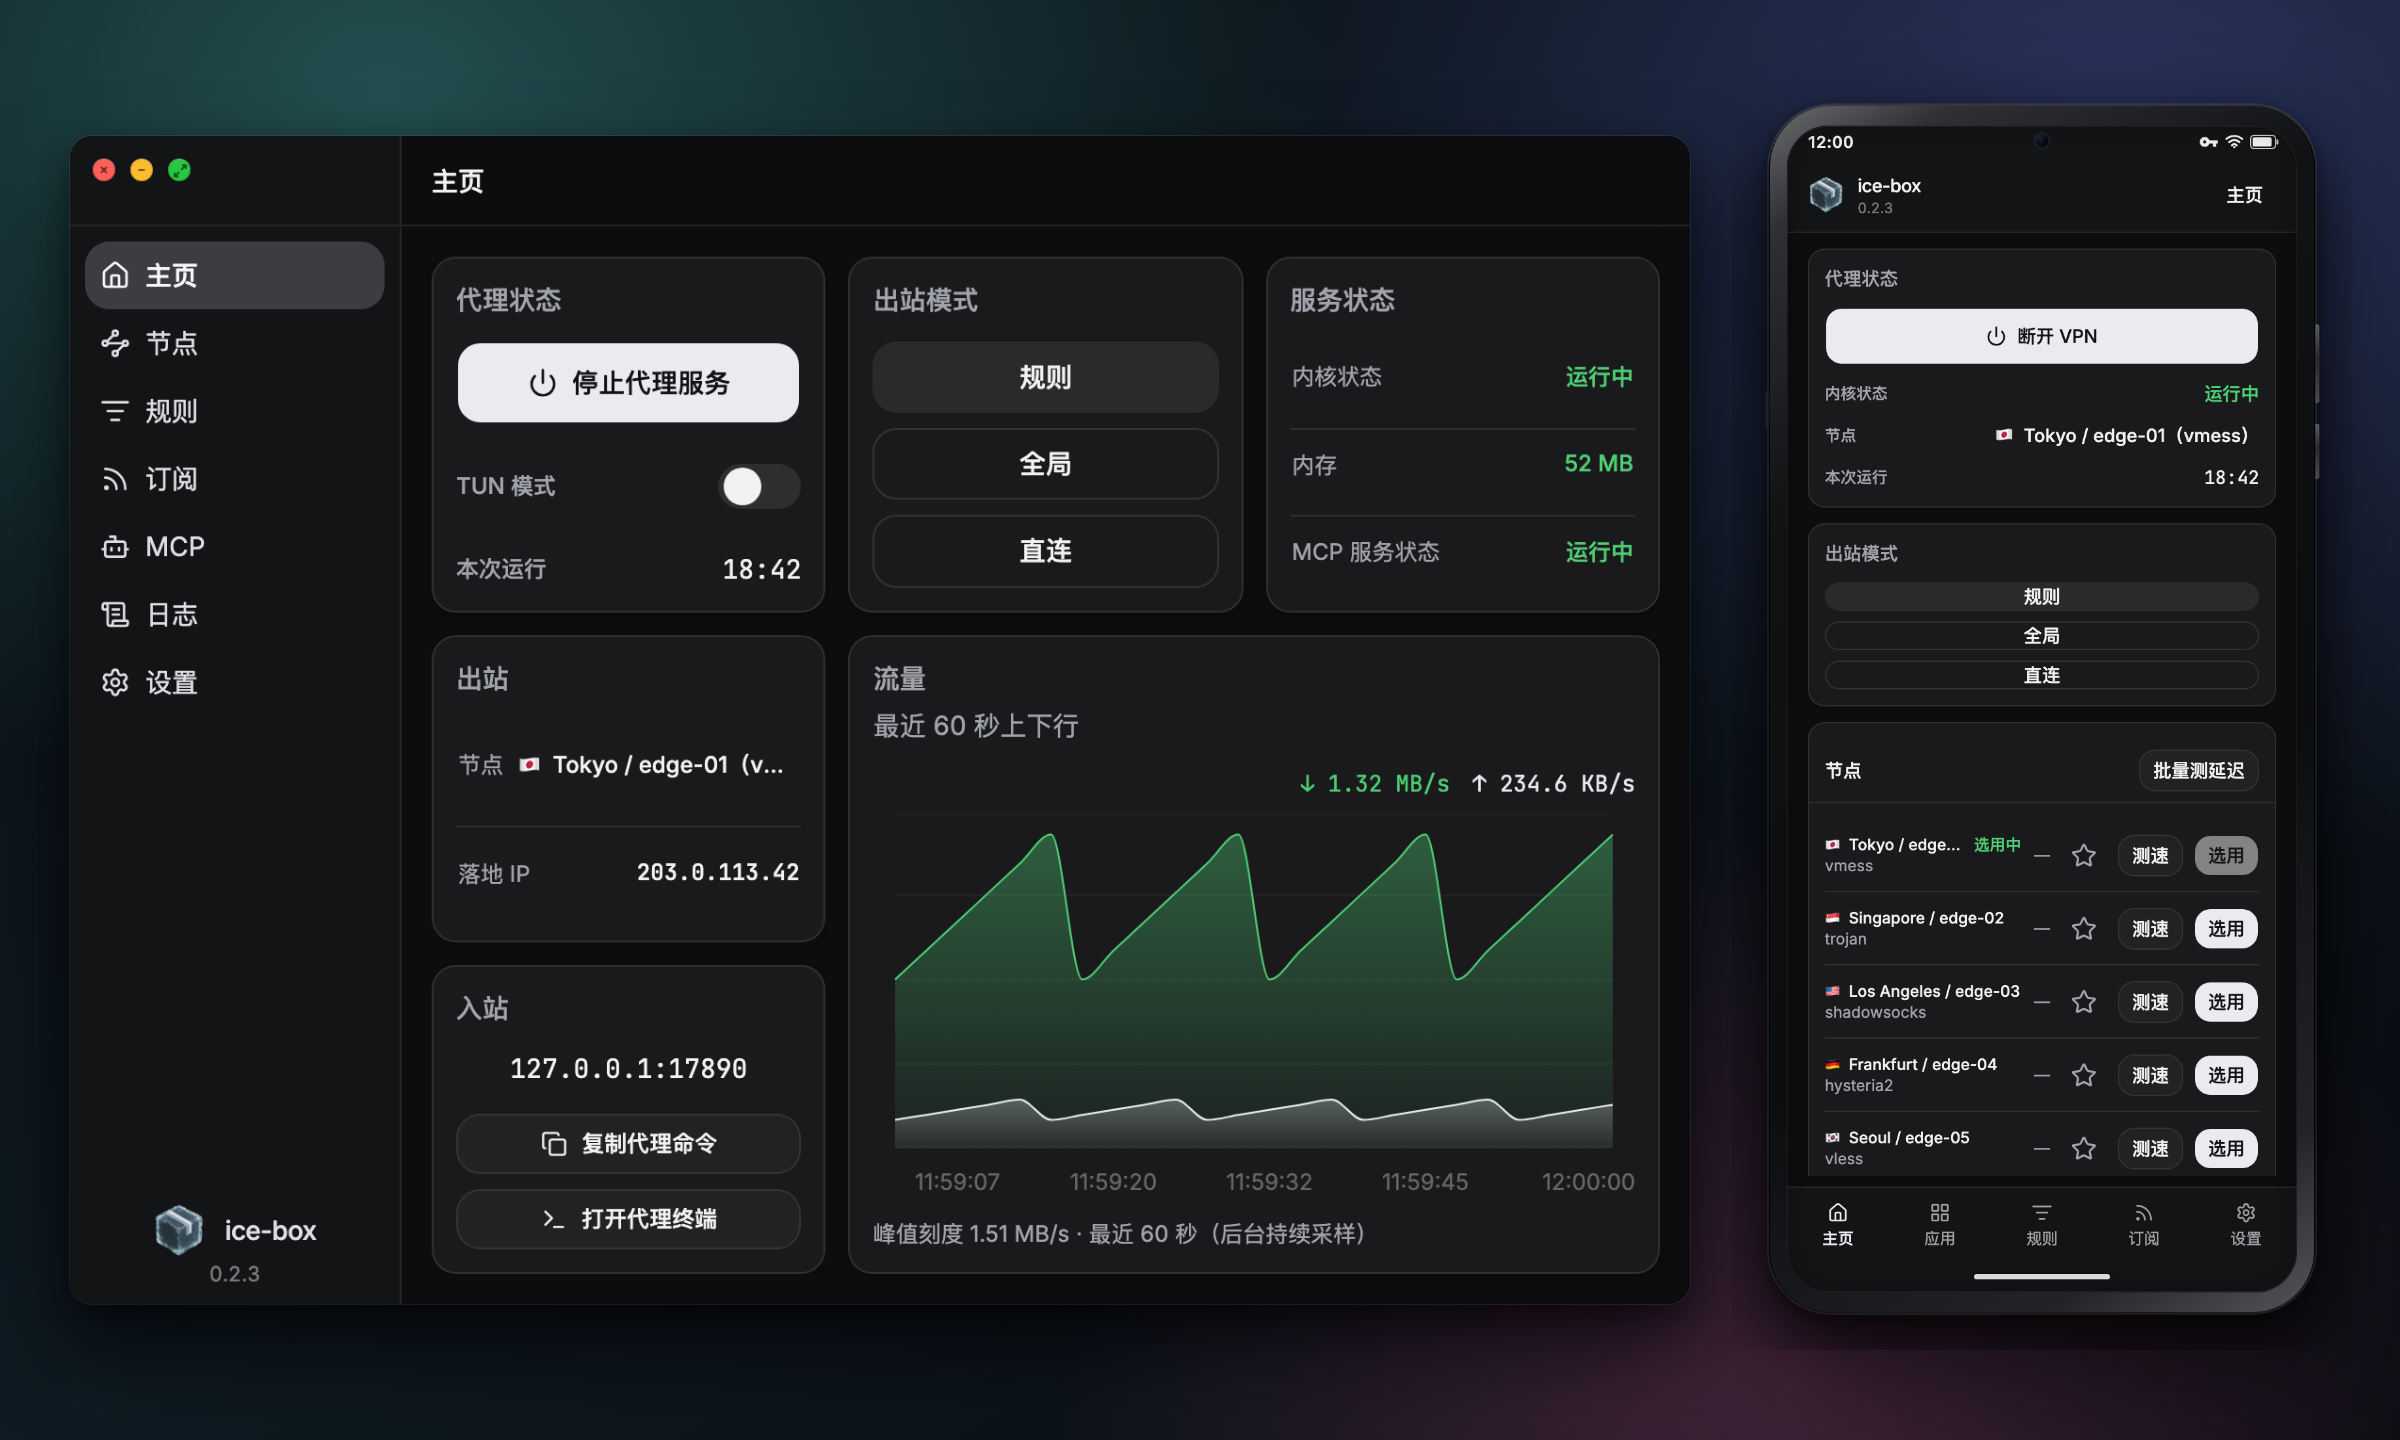
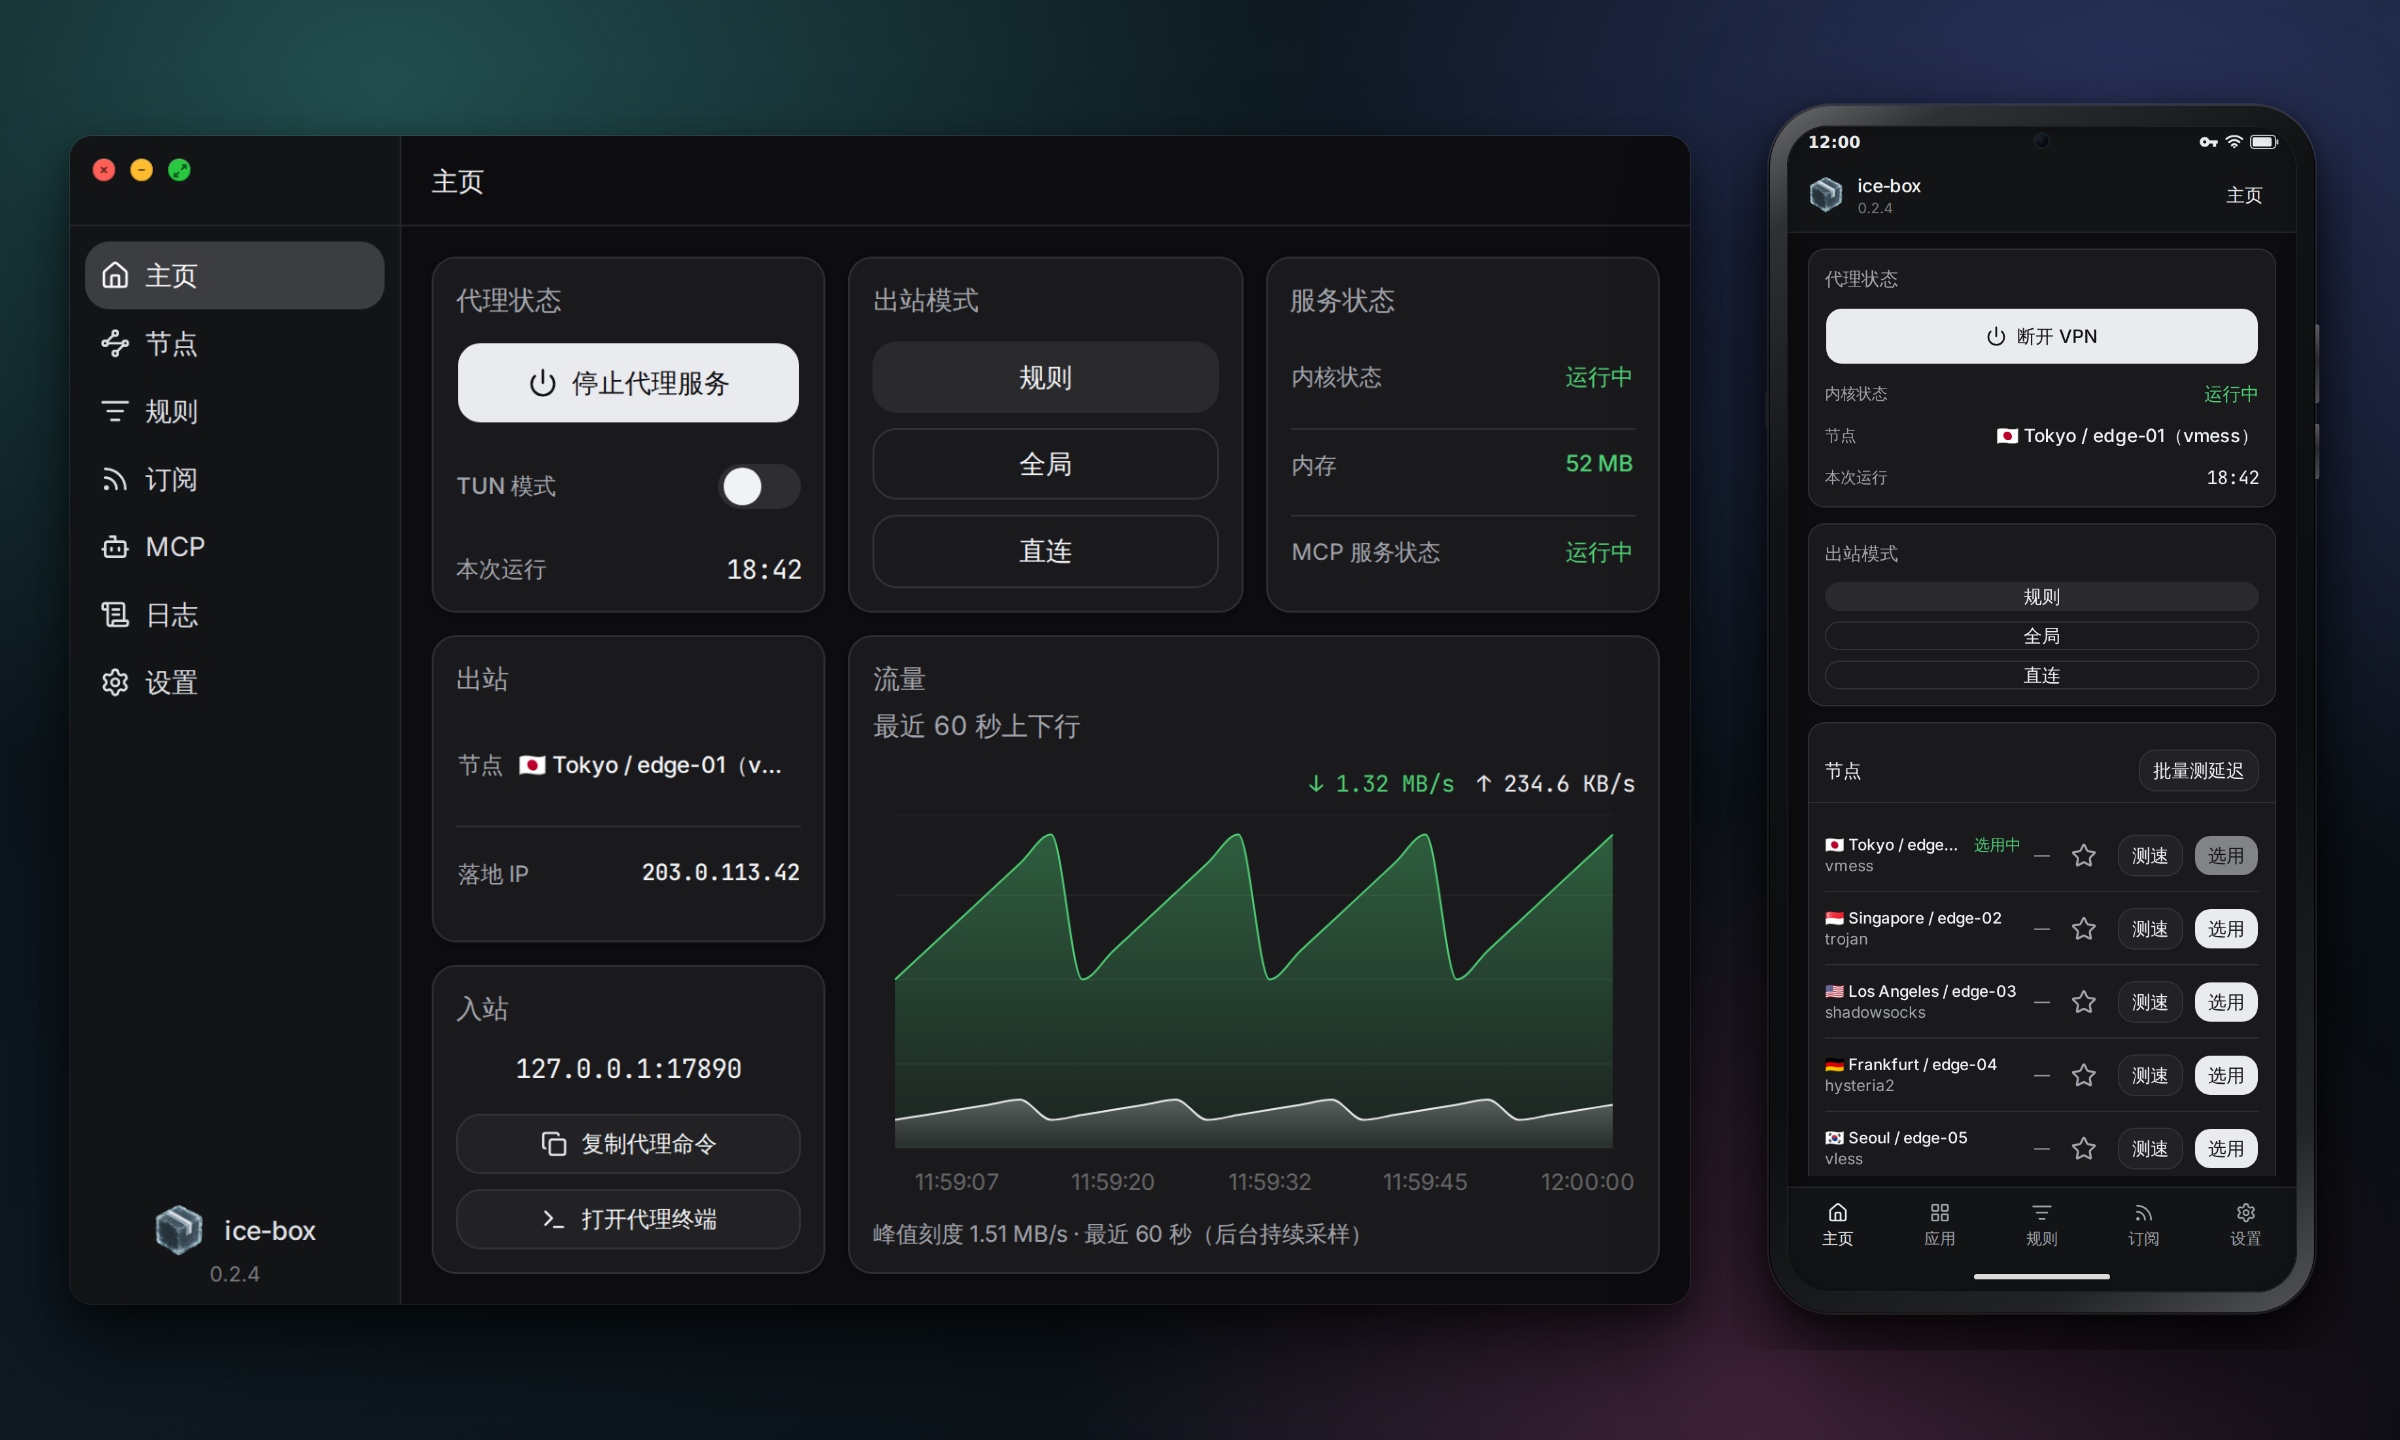
release: v0.2.4
Bump the workspace, desktop, and mobile versions to 0.2.4 and refresh the changelog and README product shot.

diff --git a/CHANGELOG.md b/CHANGELOG.md
@@ -5,6 +5,16 @@ The format is based on [Keep a Changelog](https://keepachangelog.com/en/1.1.0/).
 
 ## [Unreleased]
 
+## [0.2.4] - 2026-10-28
+
+### Changed
+
+- Desktop subscription refreshes now follow the OS system proxy, like a
+  browser: while the app's proxy is applied they go through the local mixed
+  inbound, and when no system proxy is set they connect directly. This keeps
+  updates working when direct DNS or the direct route is intercepted, without
+  routing traffic through a proxy that is off.
+
 ## [0.2.3] - 2026-10-22
 
 ### Added
